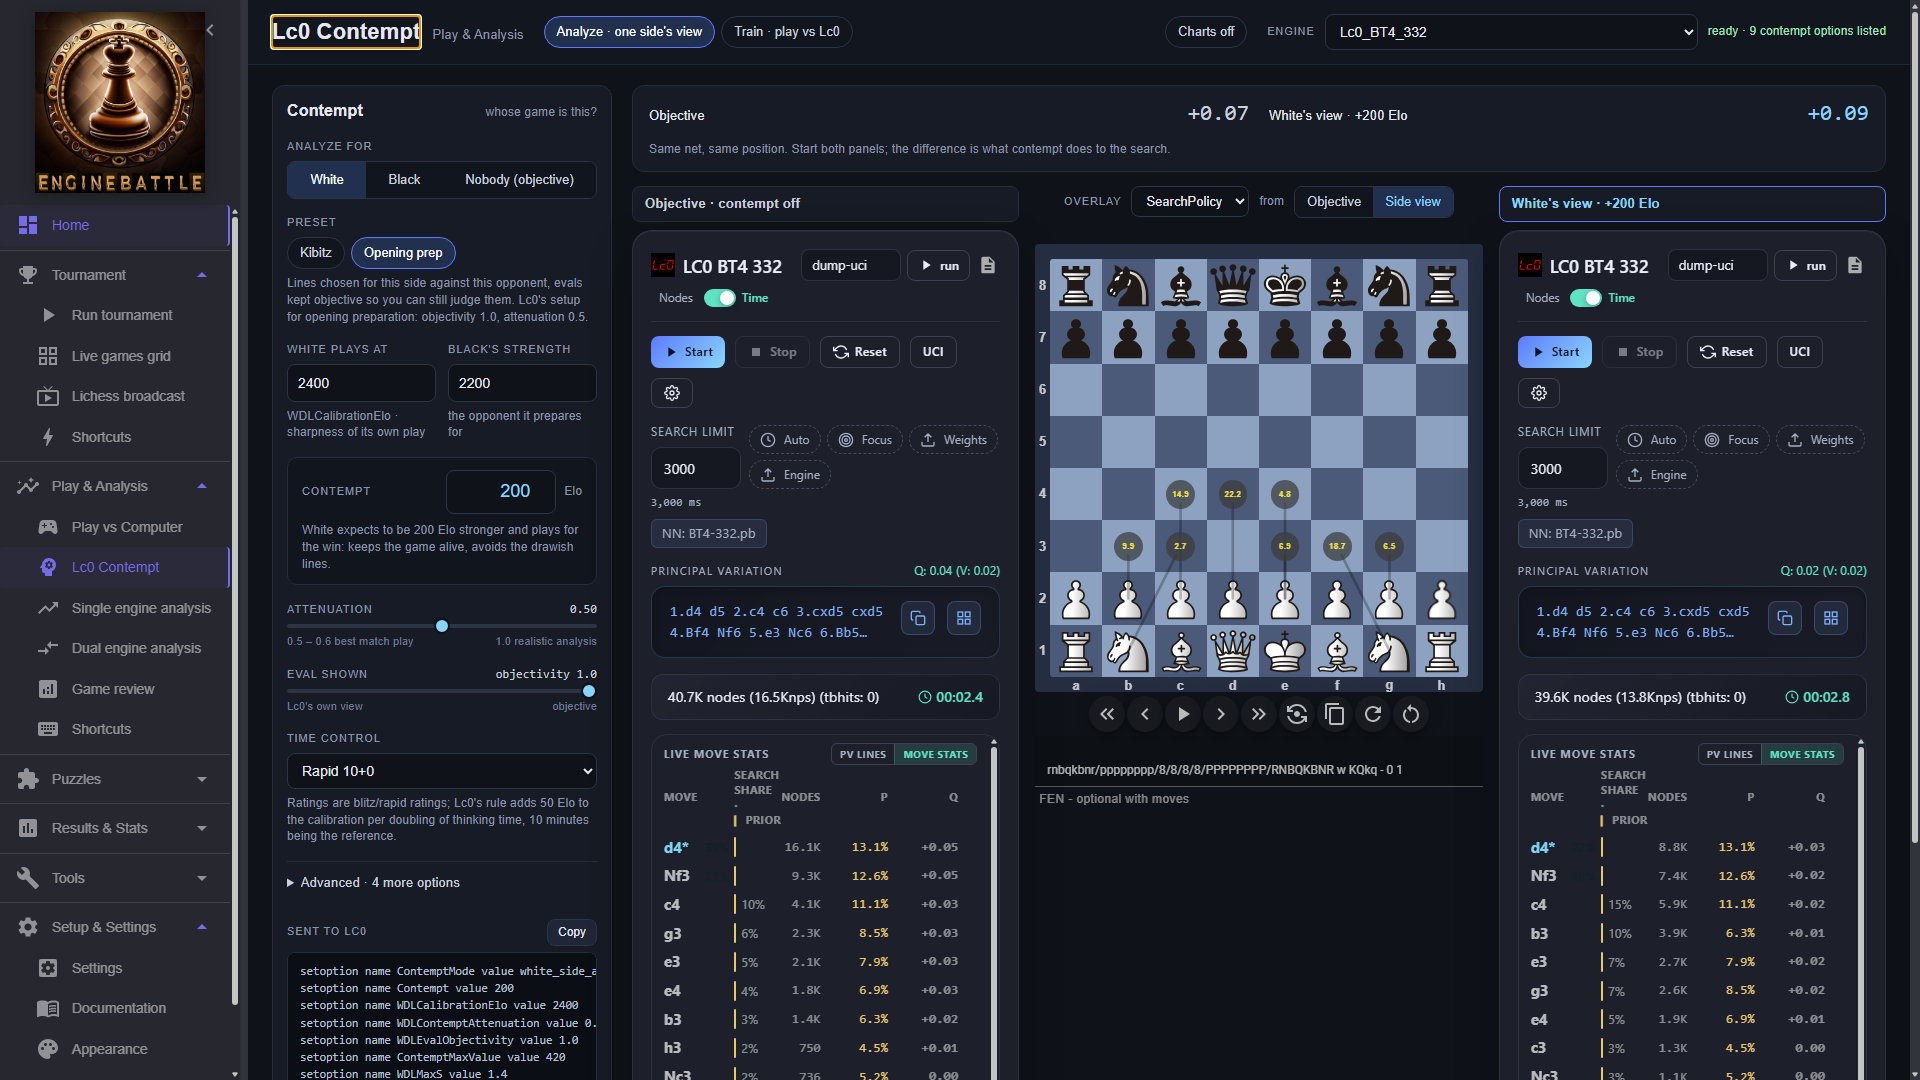
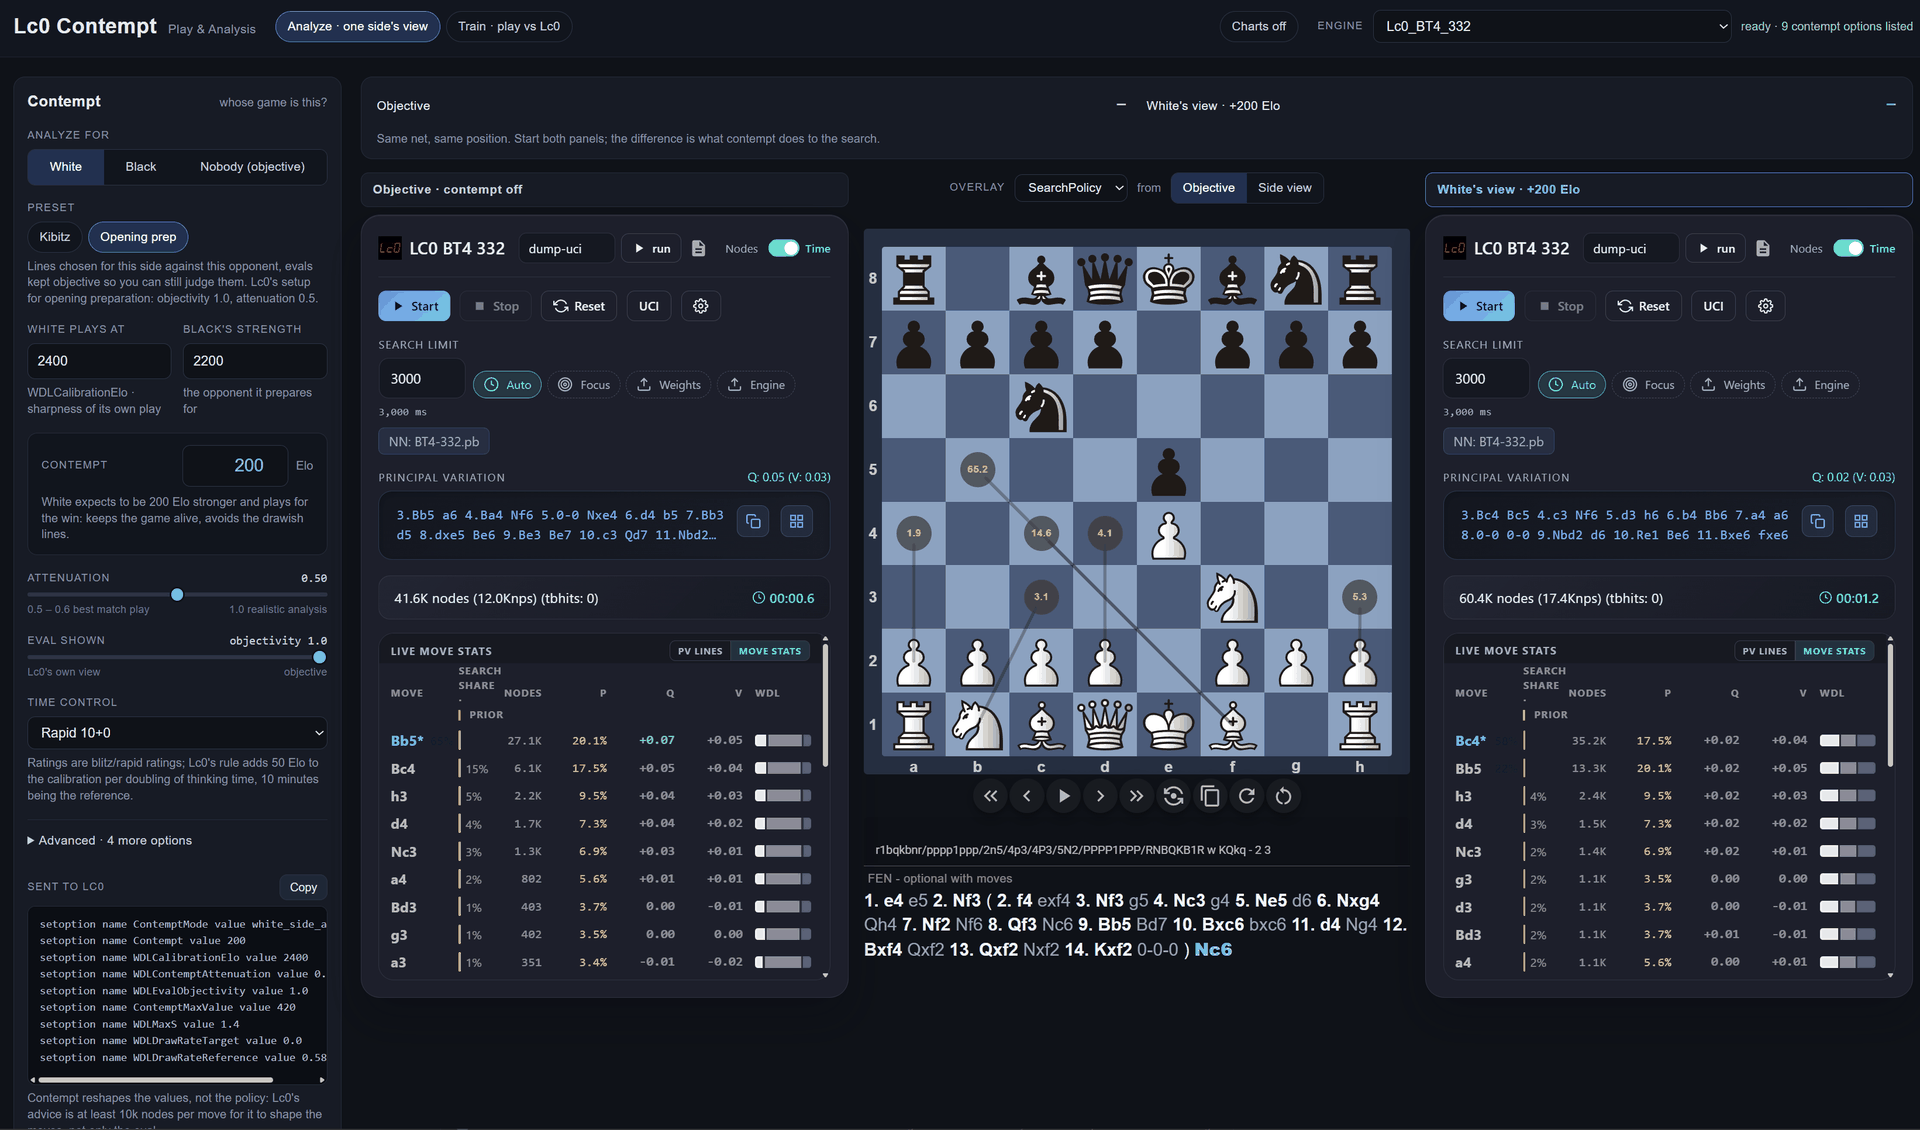
Lc0Contempt.md: the example is re-measured at 20,000 nodes (smart pruning off, so every search used the budget) and gains a first choice for Black's view; contempt dates from Lc0 v0.30, the time-control rule counts base time only, equal ratings put Lc0 100 below in Hold vs stronger, and the tourname

diff --git a/Lc0Contempt.md b/Lc0Contempt.md
@@ -6,7 +6,7 @@ Contempt changes how Lc0 **plays**, not only what it reports. With contempt on, 
 
 Contempt reshapes the values in the search tree, not the policy. Lc0's own disclaimer: let the search run for at least 10k nodes to get the intended result - with fewer nodes the policy still picks the moves and contempt shows mostly in the eval.
 
-Only Lc0 has these options (v0.31 and later). The page checks the engine's option list when it starts and says so if the engine is not an Lc0, or an Lc0 too old for the WDL options.
+Only Lc0 has these options (v0.30 and later; the page has been checked against v0.31 to v0.33). The page checks the engine's option list when it starts and says so if the engine is not an Lc0, or an Lc0 too old for the WDL options.
 
 ![Lc0 Contempt](WebGUI/wwwroot/Img/Lc0Contempt.png)
 *Analyze mode: the same net on the same position, objective on the left and from White's view with +200 Elo contempt on the right.*
@@ -27,7 +27,7 @@ Only Lc0 has these options (v0.31 and later). The page checks the engine's optio
 | Contempt | `Contempt` | Lc0's assumed Elo advantage: positive plays for the win, negative plays to hold. Values above the cap are capped. |
 | Attenuation | `WDLContemptAttenuation` | How strongly the Elo gap is applied. Lc0's own advice: 1.0 for realistic analysis, 0.5-0.6 for the best match results. |
 | Eval shown | `WDLEvalObjectivity` | 0.0 reports the WDL Lc0 actually plays by, 1.0 an objective eval. With 1.0 the displayed eval barely moves even though the play does - set it to 0 to see what contempt does. |
-| Time control | `WDLCalibrationElo` (adjustment) | The ratings you type are blitz/rapid ratings. Lc0's rule: add 50 Elo to the calibration per doubling of thinking time, 10 minutes being the reference (3+2 sends −90, 15+10 +30, 30+0 +80). Train reads the game's clock; Analyze has a picker. |
+| Time control | `WDLCalibrationElo` (adjustment) | The ratings you type are blitz/rapid ratings. Lc0's rule: add 50 Elo to the calibration per doubling of the base time, increment not counted, 10 minutes being the reference (3+2 sends −90, 15+10 +30, 30+0 +80). Train reads the game's clock; Analyze has a picker. |
 | Analyze for | `ContemptMode` | `play` in a game; `white_side_analysis` / `black_side_analysis` in Analyze; `disable` for Objective / Nobody. |
 | Advanced: Contempt max | `ContemptMaxValue` | The cap, 420 by default. |
 | Advanced: WDL max S | `WDLMaxS` | Limits the sharpness contempt can produce; raise it for DFRC or piece odds. |
@@ -41,7 +41,7 @@ The four Advanced options are hidden in Lc0's `uci` list (they appear only with 
 - *Objective* - contempt off.
 - *Club sparring* - Lc0 plays like a player of the chosen strength who knows your rating. Attenuation 0.6.
 - *Play for the win* - Lc0 keeps its strength and prepares for an opponent a full cap (420) below it, whoever is at the board: the opponent that never takes a draw.
-- *Hold vs stronger* - Lc0 is the weaker player and plays solid; practise converting an edge. If Lc0's rating is the higher one the two ratings are swapped.
+- *Hold vs stronger* - Lc0 is the weaker player and plays solid; practise converting an edge. If Lc0's rating is the higher one the two ratings are swapped; if they are equal, Lc0 is put 100 below.
 
 **Presets (Analyze)** - both from Lc0's own suggested setups:
 
@@ -56,16 +56,16 @@ The box at the bottom of the panel is the complete list of `setoption` lines the
 
 ## Example
 
-Ruy Lopez after 3...a6, BT4-332, 400 nodes, calibration 2800 against a 2500 opponent (contempt 300), eval shown 0.0:
+Ruy Lopez after 3...a6, BT4-332, 20,000 nodes, calibration 2800 against a 2500 opponent (contempt 300), Kibitz preset (eval shown 0.0, attenuation 1.0), draw-rate reference 0.58:
 
 | View | Eval | W / D / L | First choice |
 |---|---|---|---|
-| Objective | +0.12 | 26 / 53 / 21 | 5. O-O Nxe4, the open variation |
-| White's | +1.54 | 65 / 30 / 5 | 5. d3, keeping the tension |
-| Black's (Black the stronger side) | -1.23 | 7 / 36 / 57 | |
+| Objective | +0.17 | 31 / 45 / 24 | 4. Ba4 Nf6 5. O-O Nxe4, the open variation |
+| White's | +2.43 | 78 / 17 / 5 | 4. Ba4 Nf6 5. d3, keeping the tension |
+| Black's (Black the stronger side) | -2.50 | 6 / 18 / 76 | 4. Ba4 f5, the sharp deferred Schliemann |
 
-Same net, same nodes; the difference is what contempt does to the search.
+Same net, same nodes; the difference is what contempt does to the search. Lc0's smart pruning stops a node-limited search early once the best move is settled, so a search set to 20,000 nodes normally ends around 10,000; the numbers above were measured with `SmartPruningFactor` 0 so every search used the full budget.
 
 ## Tournaments
 
-Tournament play has its own, older contempt path (`ContemptEnabled` and `NegativeContemptAllowed` on an engine def, see EngineDefConfig.md): the rating difference between the two engines is sent as `Contempt` before each game. It does not use this page's settings.
+Tournament play has its own, older contempt path (`ContemptEnabled` and `NegativeContemptAllowed` on an engine def, see EngineDefConfig.md): the rating difference between the two engines is sent as `Contempt` (or `DynamicContempt` if that is the option the engine has) before each game, only when the engine is the higher-rated one unless `NegativeContemptAllowed` is set. It does not use this page's settings.
